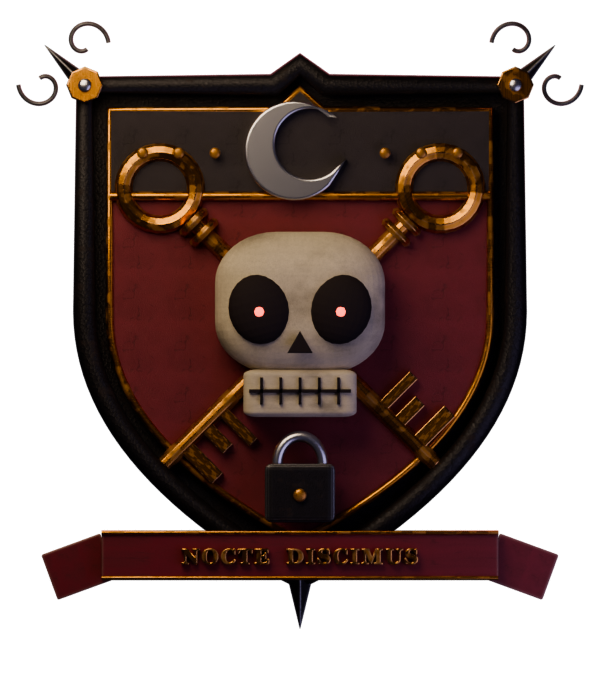
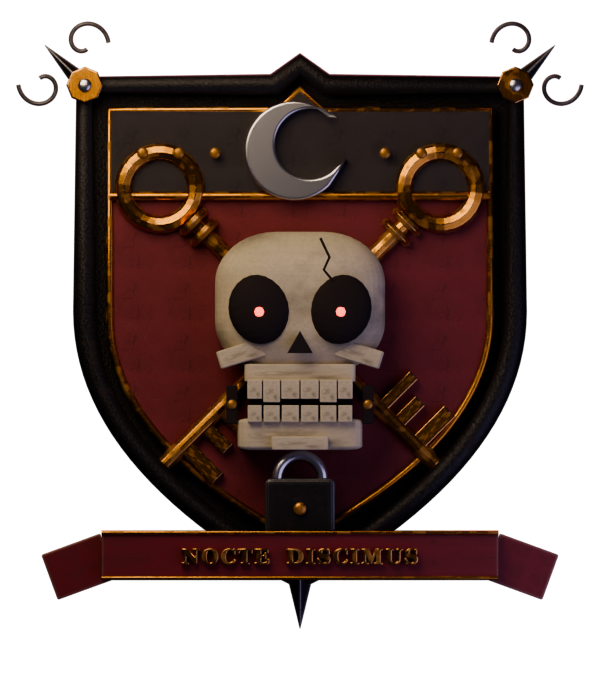
UI kit2 crest: detailed skull mouth (cheekbones, upper/lower teeth rows, mouth gap, pinned jaw hinges, brow crack)
Claude-Session: https://claude.ai/code/session_016rogguhPQPA8Q37iMQoFGp

Changed region(s): [[0.36, 0.4941, 0.66, 0.7721], [0.6, 0.6794, 0.69, 0.7412], [0.54, 0.3706, 0.57, 0.4015]]

diff --git a/art/ui/kit2/nh_ui_kit2.py b/art/ui/kit2/nh_ui_kit2.py
@@ -332,10 +332,6 @@ def r6_skull(loc, M):
     sk.scale = (1.5, 0.9, 1.25)
     bv = sk.modifiers.new("B", "BEVEL"); bv.width = 0.36; bv.segments = 10
     link(sk, M["bone"])
-    bpy.ops.mesh.primitive_cube_add(size=1, location=(x, y + 0.05, z - 0.62)); jaw = bpy.context.active_object
-    jaw.scale = (1.0, 0.75, 0.42)
-    bv = jaw.modifiers.new("B", "BEVEL"); bv.width = 0.12; bv.segments = 6
-    link(jaw, M["bone"])
     dark = P.material("Socket", base=(0.015, 0.008, 0.01), rough=0.85, wear=0.0, dirt=0.0)
     glow = P.material("Ember", base=(0.9, 0.08, 0.06), rough=0.4, wear=0.0, dirt=0.0)
     try:
@@ -351,9 +347,27 @@ def r6_skull(loc, M):
         link(bpy.context.active_object, glow)
     bpy.ops.mesh.primitive_cone_add(vertices=3, radius1=0.13, depth=0.1, location=(x, y - 0.45, z - 0.2), rotation=(math.pi / 2, 0, math.pi))
     link(bpy.context.active_object, dark)
-    for k in range(-2, 3):
-        slab("Gap", 0.025, 0.24, 0.05, (x + k * 0.17, y - 0.33, z - 0.6), dark, bevel=0.005)
-    slab("Bite", 0.9, 0.03, 0.05, (x, y - 0.33, z - 0.6), dark, bevel=0.005)
+    # mouth: cheekbones, upper jaw with a row of teeth, a dark gap, a hinged lower jaw with its own teeth
+    for sx in (-1, 1):
+        cb = slab("Cheek", 0.42, 0.16, 0.36, (x + sx * 0.52, y - 0.2, z - 0.27), M["bone"], bevel=0.07)
+        cb.rotation_euler = (0, sx * 0.3, 0)
+    slab("Maxilla", 0.98, 0.16, 0.5, (x, y - 0.12, z - 0.44), M["bone"], bevel=0.06)
+    slab("MouthGap", 0.92, 0.26, 0.3, (x, y - 0.12, z - 0.68), dark, bevel=0.03)
+    widths = (0.13, 0.15, 0.16, 0.16, 0.15, 0.13)
+    xs, acc = [], -sum(widths) / 2 - 0.01 * 2.5
+    for w in widths:
+        xs.append(acc + w / 2); acc += w + 0.01
+    for i, (tx, w) in enumerate(zip(xs, widths)):
+        long = 0.03 if i in (1, 4) else 0.0        # canines a touch longer
+        slab("ToothU", w, 0.17 + long, 0.16, (x + tx, y - 0.36, z - 0.585 - long / 2), M["bone"], bevel=0.035)
+        slab("ToothL", w * 0.95, 0.15, 0.16, (x + tx, y - 0.34, z - 0.8), M["bone"], bevel=0.035)
+    jaw = slab("Mandible", 1.1, 0.28, 0.62, (x, y - 0.05, z - 0.98), M["bone"], bevel=0.11)
+    slab("Chin", 0.5, 0.12, 0.2, (x, y - 0.33, z - 1.06), M["bone"], bevel=0.06)
+    for sx in (-1, 1):
+        slab("Hinge", 0.1, 0.34, 0.2, (x + sx * 0.6, y - 0.22, z - 0.72), dark, bevel=0.03)   # jaw joints
+        rivet((x + sx * 0.6, y - 0.32, z - 0.72), 0.045, M["brass"])                       # brass pins
+    # a hairline crack across the brow
+    curve("Crack", [(x + 0.18, y - 0.69, z + 0.75), (x + 0.26, y - 0.69, z + 0.58), (x + 0.21, y - 0.69, z + 0.47), (x + 0.3, y - 0.69, z + 0.36)], 0.012, dark)
 
 
 def crest():
@@ -380,9 +394,9 @@ def crest():
         finial(sx * 1.9, 2.0, 0.5, sx, 1, M)
     bpy.ops.mesh.primitive_cone_add(vertices=4, radius1=0.12, depth=0.5, location=(0, -0.02, -2.55), rotation=(math.pi, 0, 0))
     link(bpy.context.active_object, M["iron"])
-    slab("LockBody", 0.62, 0.52, 0.26, (0, -0.3, -1.6), M["iron"], bevel=0.1)
-    curve("Shackle", [(0.2 * math.cos(math.pi * i / 16), -0.3, -1.34 + 0.24 * math.sin(math.pi * i / 16)) for i in range(17)], 0.05, M["silver"])
-    rivet((0, -0.45, -1.62), 0.06, M["brass"])
+    slab("LockBody", 0.62, 0.5, 0.26, (0, -0.3, -1.72), M["iron"], bevel=0.1)
+    curve("Shackle", [(0.2 * math.cos(math.pi * i / 16), -0.36, -1.47 + 0.2 * math.sin(math.pi * i / 16)) for i in range(17)], 0.05, M["silver"])
+    rivet((0, -0.45, -1.74), 0.06, M["brass"])
     slab("Ribbon", 3.5, 0.42, 0.08, (0, -0.55, -2.15), M["crimson"], bevel=0.03)
     for sx in (-1, 1):
         t = slab("Tail", 0.55, 0.42, 0.06, (sx * 1.95, -0.45, -2.25), M["crimson"], bevel=0.03); t.rotation_euler = (0, sx * 0.35, 0)
